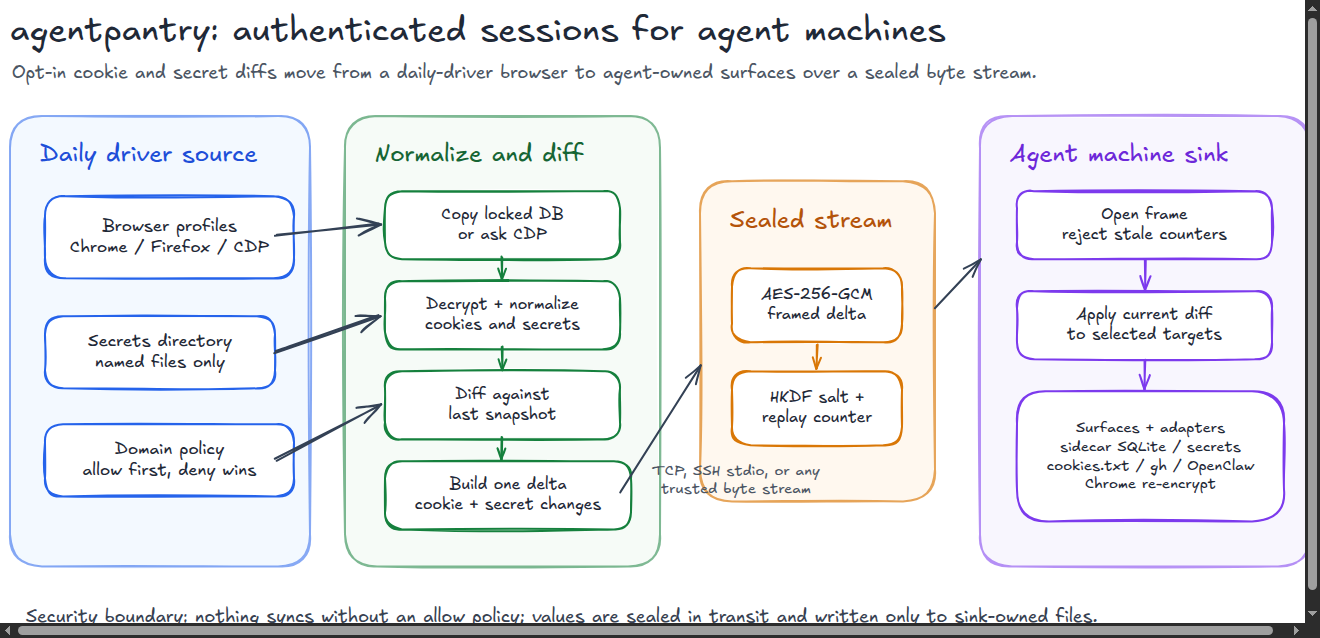
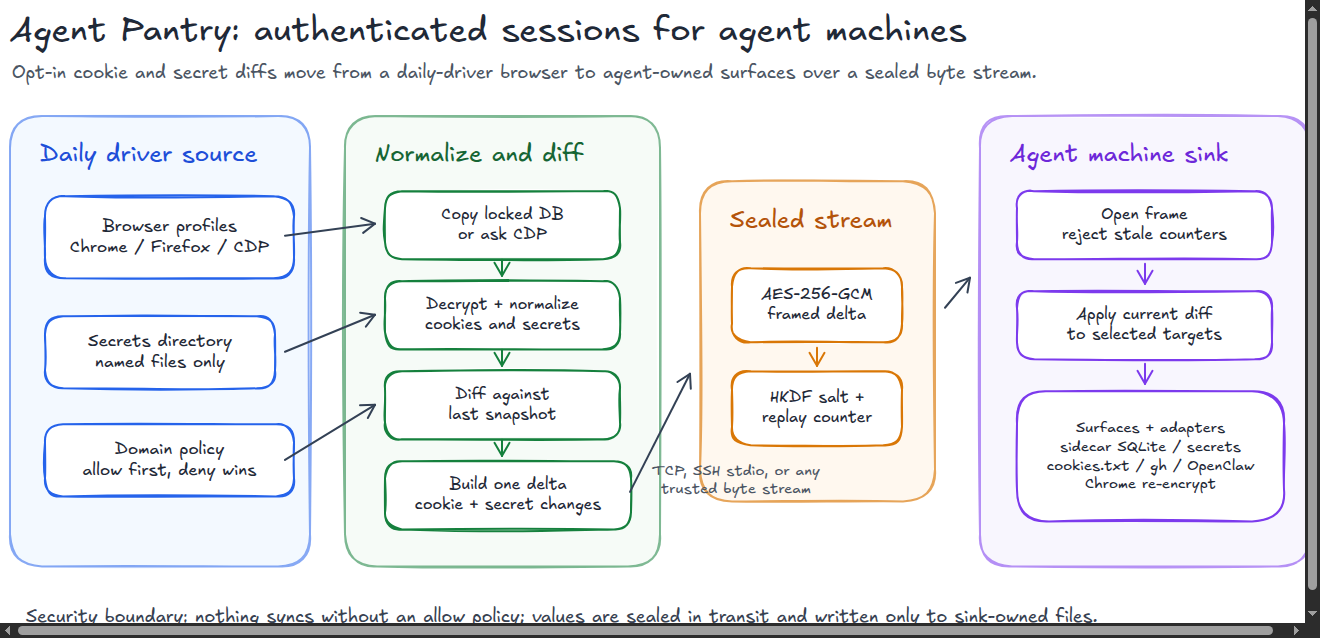
docs: polish readme seo and diagram spacing

diff --git a/README.md b/README.md
@@ -1,7 +1,7 @@
 <div align="center">
-  <img src="docs/assets/agentpantry-social-preview.jpg" alt="agentpantry secure kitchen pantry banner" width="900">
+  <img src="docs/assets/agentpantry-social-preview.jpg" alt="Agent Pantry secure browser session sync for AI agents" width="900">
 
-  <h1>agentpantry</h1>
+  <h1>Agent Pantry</h1>
 
   <p><strong>Authenticated sessions for agent machines.</strong></p>
 
@@ -13,22 +13,17 @@
   </p>
 </div>
 
-Keep your agent's machine authenticated. agentpantry mirrors selected browser
-sessions and named secrets from your daily-driver (source) to the machine your
-agent runs on (sink), encrypted over any reachable byte stream, so automation can
-use tools that expect local auth state.
+Keep your agent's machine authenticated. Agent Pantry (`agentpantry`) is a
+secure browser session and secret sync CLI for AI agents. It mirrors selected
+cookies, browser auth state, and named secrets from your daily-driver (source)
+to the machine your agent runs on (sink), encrypted over any reachable byte
+stream, so automation can use tools that expect local auth state.
 
-agentpantry is part of the Brigade fleet from Escoffier Labs: small, composable
-agent-ops tools that help agent runtimes work with real local environments. It
-is still a standalone MIT-licensed CLI; you can use it without Brigade or any
-other Escoffier Labs tool.
-
-The project is inspired by [agentcookie](https://github.com/mvanhorn/agentcookie),
-which proved the value of keeping an agent machine stocked with the auth state it
-needs. agentpantry takes that idea in a cross-platform direction, with Linux and
-Windows browser readers, Firefox support, Chrome DevTools cookie export for
-app-bound Chrome, and sink surfaces for sidecar SQLite, real-Chrome re-encrypt,
-secrets, and CLI adapters.
+Agent Pantry is part of the [Brigade](https://github.com/escoffier-labs/brigade)
+fleet from Escoffier Labs: small, composable agent-ops tools that help agent
+runtimes work with real local environments. It is still a standalone
+MIT-licensed CLI; you can use it without Brigade or any other Escoffier Labs
+tool.
 
 ## Install
 
@@ -296,3 +291,7 @@ Additional shipped surfaces include real-Chrome re-encrypt, secrets, Netscape
 `cookies.txt`, `gh`, and `openclaw`. Source support includes Linux Chromium,
 Firefox, Windows Chromium, and Chrome DevTools Protocol export for app-bound
 Chrome profiles.
+
+## Acknowledgements
+
+Hat tip to [agentcookie](https://github.com/mvanhorn/agentcookie) for the spark.